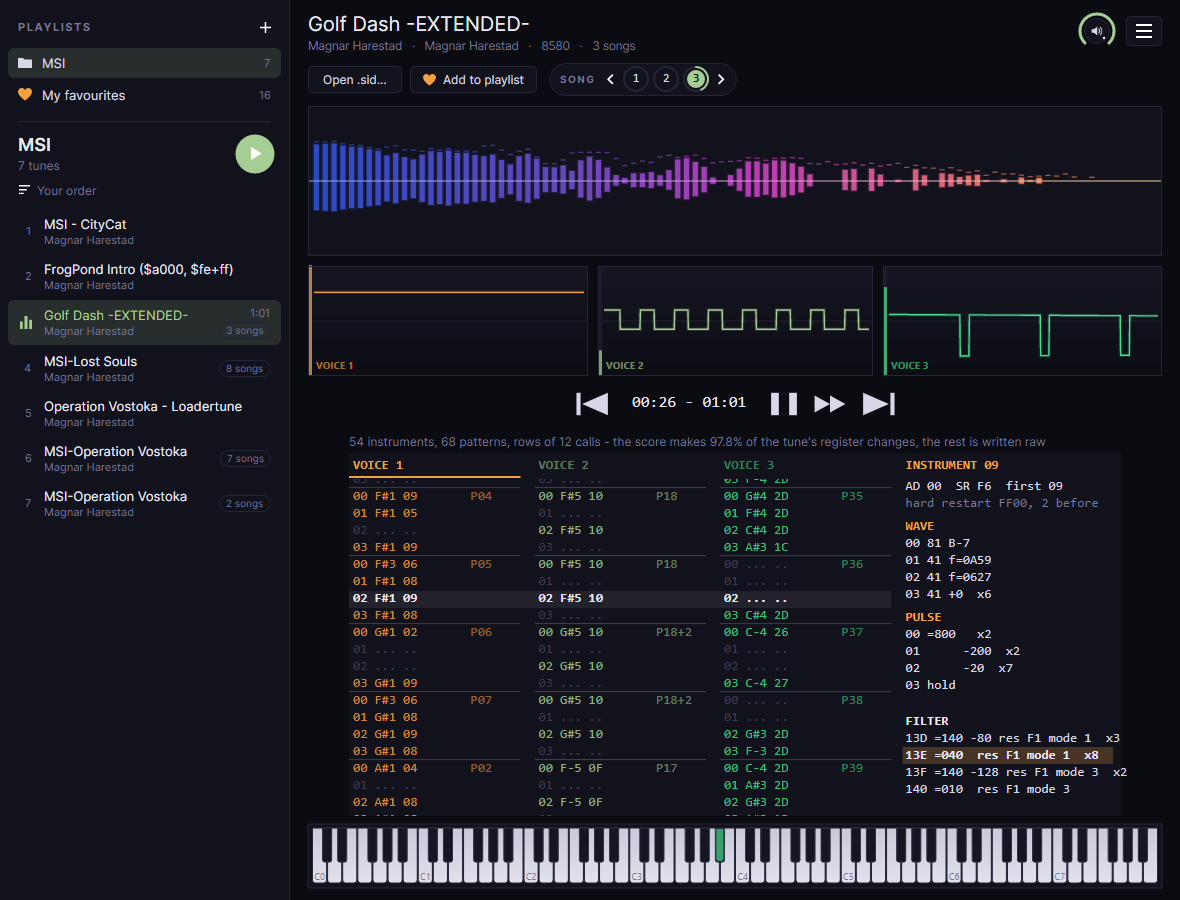
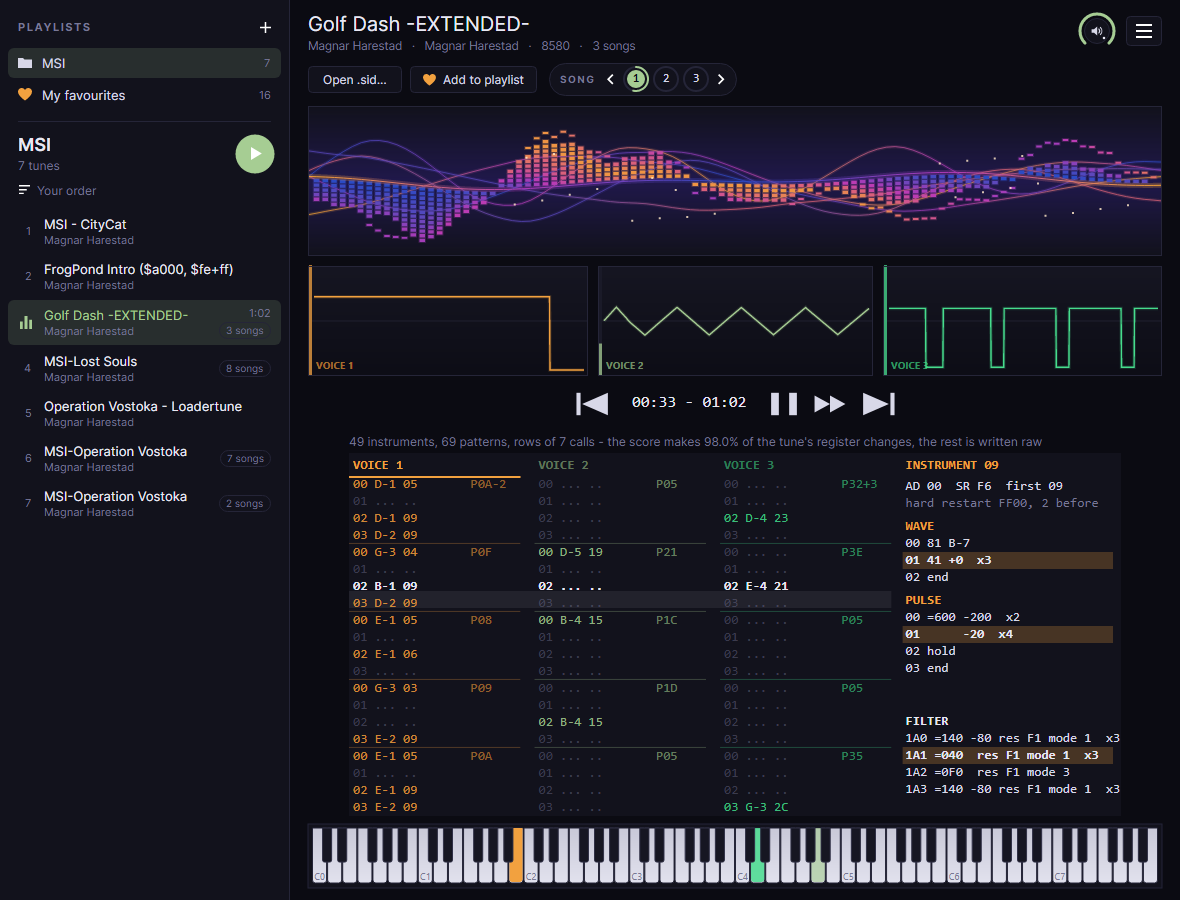
1.23: the website on the wider landscape and Neon's waves

diff --git a/docs/index.html b/docs/index.html
@@ -15,7 +15,7 @@
 <main class="wrap">
   <section class="hero">
     <img src="logo.png" alt="MagPlaySID logo">
-    <h1>MagPlaySID <span id="version">v1.22</span></h1>
+    <h1>MagPlaySID <span id="version">v1.23</span></h1>
     <p class="released">Release date: <time id="released" datetime="2026-11-01">2026-11-01</time></p>
     <p>A player for Commodore 64 music that shows how a tune is built. Drop any <code>.sid</code> on it:
       it plays on an emulated C64, and you see it as a tracker would - its notes, instruments and effects
@@ -25,9 +25,9 @@
       <a class="button" id="windows" href="https://github.com/MagnarHarestad/MagPlaySID/releases/latest">Download for Windows</a>
       <small>Free and open source · Windows 10/11, 64-bit · nothing to install, .NET is inside</small>
       <p class="also">Also for
-        <a id="macos-arm64" href="https://github.com/MagnarHarestad/MagPlaySID/releases/download/v1.22/MagPlaySID-1.22-macos-arm64.zip">macOS · Apple Silicon</a>
-        <a id="macos-x64" href="https://github.com/MagnarHarestad/MagPlaySID/releases/download/v1.22/MagPlaySID-1.22-macos-x64.zip">macOS · Intel</a>
-        <a id="linux-x64" href="https://github.com/MagnarHarestad/MagPlaySID/releases/download/v1.22/MagPlaySID-1.22-linux-x64.tar.gz">Linux · x64</a>
+        <a id="macos-arm64" href="https://github.com/MagnarHarestad/MagPlaySID/releases/download/v1.23/MagPlaySID-1.23-macos-arm64.zip">macOS · Apple Silicon</a>
+        <a id="macos-x64" href="https://github.com/MagnarHarestad/MagPlaySID/releases/download/v1.23/MagPlaySID-1.23-macos-x64.zip">macOS · Intel</a>
+        <a id="linux-x64" href="https://github.com/MagnarHarestad/MagPlaySID/releases/download/v1.23/MagPlaySID-1.23-linux-x64.tar.gz">Linux · x64</a>
         <a class="plain" id="notes" href="https://github.com/MagnarHarestad/MagPlaySID/releases/latest">release notes</a>
         <a class="plain" href="#mac">opening it on a Mac</a></p>
     </div>
@@ -51,15 +51,15 @@
     <div class="card"><div class="i">📂</div><h3>Drop and play</h3><p>Drag a <code>.sid</code> from the desktop onto the window, open one, or name it on the command line. Space pauses, and the rows stop with the music; in a playlist, the arrow keys go to the tune before or after.</p></div>
     <div class="card"><div class="i">🎶</div><h3>Playlists</h3><p>Drop a folder of <code>.sid</code> files - or several tunes - on the window and it becomes a playlist down the left, played one tune after another, each moving on once it has played its length; <b>Open folder as playlist</b> in the menu does the same. Make playlists of your favourites from any tune with <b>♥ Add to playlist</b> or a right-click; drag a tune up or down to change the order. <b>Show playlists</b> in the menu opens and hides the strip.</p></div>
     <div class="card"><div class="i">↕</div><h3>Sort a playlist</h3><p>The button above the tunes sorts them by release year, title, composer, group, file date, number of songs, length, recently played or most played - or shuffles them - and your own order is always there to go back to. Playing a tune saves its length and plays on your PC, so those sorts need nothing measured beforehand; tunes not played yet come last.</p></div>
-    <div class="card"><div class="i">🌄</div><h3>Three meters</h3><p>See the sound as classic spectrum bars, as a wireframe landscape to fly into with the bass in peaks down the middle, or as neon bars mirrored about a glowing line. Click the meter for the next, or choose one under <b>Meter</b> in the menu; it is remembered.</p></div>
+    <div class="card"><div class="i">🌄</div><h3>Three meters</h3><p>See the sound as classic spectrum bars, as a wireframe landscape to fly into, with mountains right across it and the bass tallest down the middle, or as neon waves: bars of little blocks swaying up and down on a swell, with lines of light rolling through them. Click the meter for the next, or choose one under <b>Meter</b> in the menu; it is remembered.</p></div>
     <div class="card"><div class="i">🔢</div><h3>Every song</h3><p>A tune of several songs shows them as round buttons beside Add to playlist, the one playing ringed as it goes: click one, or press 1-9, + and -. Previous and Next move between tunes, and <b>Play every song of a tune</b> in the menu plays all of a tune's songs before the next.</p></div>
     <div class="card"><div class="i">⏩</div><h3>Hold to fast-forward</h3><p>Hold the fast-forward button beside play - or the F key - and the tune runs four times as fast, quietly, with the clock, scopes, rows and piano keeping up. Let go and it plays on as before.</p></div>
     <div class="card"><div class="i">⚙</div><h3>Yours to set</h3><p>The knob at the top right sets the volume: drag or scroll it, click to mute. In the menu beside it, <b>Big font</b> makes the rows, the tune's details and the labels a quarter larger. <b>Check for updates at start</b> - asked once, the first time - looks for a newer version each time MagPlaySID opens, and offers this page when there is one.</p></div>
   </div>
 
   <figure class="shot">
-    <img src="screenshots/playlist.png" width="1180" height="900" alt="MagPlaySID playing Golf Dash Extended from a folder dropped on the window: the folder as a playlist above the favourites, its seven tunes listed with how many songs each has and the length of the tune played, a sort button above them, neon meter bars, and the tune's three songs beside Add to playlist">
-    <figcaption>A folder dropped on the window, as a playlist above your favourites: its tunes in order, played one after another; the one playing lit; a badge on each tune that has several songs, and the length of each once played; a button to sort them; a round button that plays the playlist from the top; and here the neon meter.</figcaption>
+    <img src="screenshots/playlist.png" width="1180" height="900" alt="MagPlaySID playing Golf Dash Extended from a folder dropped on the window: the folder as a playlist above the favourites, its seven tunes listed with how many songs each has and the length of the tune played, a sort button above them, the neon meter's waves, and the tune's three songs beside Add to playlist">
+    <figcaption>A folder dropped on the window, as a playlist above your favourites: its tunes in order, played one after another; the one playing lit; a badge on each tune that has several songs, and the length of each once played; a button to sort them; a round button that plays the playlist from the top; and here the neon meter's waves.</figcaption>
   </figure>
 
   <h2 id="start">Get started</h2>
@@ -114,7 +114,7 @@
 
 <footer><div class="wrap"><span>© 2026 Magnar Harestad · Censor Design</span><a href="https://github.com/MagnarHarestad/MagPlaySID">Source on GitHub</a><a href="https://github.com/MagnarHarestad/MagPlaySID/releases">Releases</a><a href="https://github.com/MagnarHarestad/MagPlaySID/issues">Report a problem</a><a href="https://magnarharestad.github.io/MagSID/">MagSID Editor</a></div></footer>
 <script>
-// The version, the release date and the downloads follow the latest release; v1.22 stands until
+// The version, the release date and the downloads follow the latest release; v1.23 stands until
 // GitHub answers, or if it does not.
 fetch('https://api.github.com/repos/MagnarHarestad/MagPlaySID/releases/latest')
   .then(response => response.ok ? response.json() : null)
